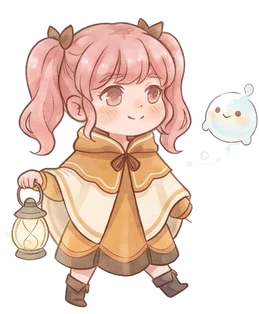
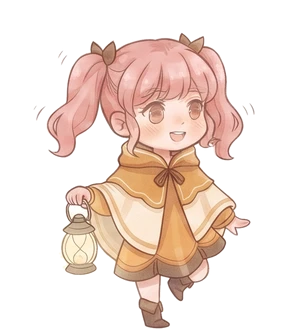
새싹 원정대 v6.7: 소환사 4장 걷기 + 따로 떠다니는 정령, 첫 실행은 바로 모험, 단계별 안내, 첫 레벨업·첫 카드 앞당김, 초반 정예 완화
Claude-Session: https://claude.ai/code/session_01D8ERGz5r4FPkuXoKDYhqRw

diff --git a/sprout/index.html b/sprout/index.html
@@ -3,7 +3,7 @@
 <head>
 <meta charset="utf-8">
 <meta name="viewport" content="width=device-width,initial-scale=1,viewport-fit=cover,user-scalable=no">
-<title>새싹 원정대 v6.6</title>
+<title>새싹 원정대 v6.7</title>
 <meta name="theme-color" content="#2f4a2c">
 <style>
 :root{--ink:#3a2f22;--cream:#fbf5e6}
@@ -65,9 +65,9 @@ function fit(){
 addEventListener('resize',fit);fit();
 
 /* ---------- 이미지 ---------- */
-const IMG={};const NAMES=['sprout','hedgehog','fox','bunny','owl','frog','sheep','baker','sprite_e0','sprite_e1','sprite_e2','sprite_e3','boss','bg_forest','p_idle','p_run','p_swing','p_jump','p_cast','fx_leaf','fox_idle','fox_shoot','bunny_idle','bunny_heal','hedgehog_idle','hedgehog_atk','sheep_idle','sheep_atk','ground','plat','bg_village','bg_marsh','m_e0','m_e1','m_e2','m_e3','boss2','it_bread','it_clover','it_mush','it_star','it_twig','it_seed','it_chest','it_jar','owl_idle','owl_cast','frog_idle','frog_play','baker','rival','thief','castle_me','castle_foe','fg1','fg2','fg3','vfx_slash','vfx_heal','vfx_hit','vfx_lvup','vfx_star','vfx_leaf','fox_w1','fox_w2','fox_w3','fox_a','sheep_w1','sheep_w2','sheep_w3','sheep_a','bunny_w1','bunny_w2','bunny_w3','bunny_a','owl_w1','owl_w2','owl_w3','owl_a','dmg_n','dmg_c','board','chest','trophy','bg_duel','bg_wide','bg_desert','bg_blossom','bg_world','b_fox','b_sheep','b_bunny','b_hedgehog','b_owl','b_frog','b_ice','b_spire','tw_me','tw_foe','hb0','hb1','hb2','hb3','frost_h0','frost_h1','frost_h2','frost_h3','thief_h0','thief_h1','thief_h2','thief_h3','skill_icons','spirit','fxs','wb_0','wb_1','wb_2','wb_3','wb_4','wb_5','c_sum_h0','c_sum_h1','c_sum_h2','c_sum_h3','c_war_h0','c_war_h1','c_war_h2','c_war_h3','c_arc_h0','c_arc_h1','c_arc_h2','c_arc_h3','c_mag_h0','c_mag_h1','c_mag_h2','c_mag_h3','c_rog_h0','c_rog_h1','c_rog_h2','c_rog_h3','baker_h0','baker_h1','baker_h2','baker_h3','p_run2','p_k1','p_k2','p_k3','p_k4','p_k5','p_rc0','p_rc1','p_rc2','p_rc3','p_rc4','p_rc5','p_rc6','p_rc7','p_rt0','p_rt1','p_rt2','p_rt3','p_rt4','p_rt5','p_rt6','p_rt7','p_jc','p_jr','p_jf','p_jl','bg_canyon','castle_lava','castle_ghost','jg_dragon','jg_icedragon','bush','heal_fruit','lv_e0','lv_e1','lv_e2','lv_e3','lv_m0','lv_m1','lv_m2','lv_m3','gh_e0','gh_e1','gh_e2','gh_e3','gh_m0','gh_m1','gh_m2','gh_m3','hj_knight','hj_assassin','hj_lancer','hj_bear','hj_elf','hj_raccoon','hj_mage','hj_deer','hj_monk','hj_wolf','hj_turtle','hj_gunner','hj_alch','hj_penguin','hj_crow','hj_bard','tw_lv','b_lv1','b_lv2','sp_lv','tw_gh','b_gh1','b_gh2','sp_gh'];
+const IMG={};const NAMES=['sprout','hedgehog','fox','bunny','owl','frog','sheep','baker','sprite_e0','sprite_e1','sprite_e2','sprite_e3','boss','bg_forest','p_idle','p_run','p_swing','p_jump','p_cast','fx_leaf','fox_idle','fox_shoot','bunny_idle','bunny_heal','hedgehog_idle','hedgehog_atk','sheep_idle','sheep_atk','ground','plat','bg_village','bg_marsh','m_e0','m_e1','m_e2','m_e3','boss2','it_bread','it_clover','it_mush','it_star','it_twig','it_seed','it_chest','it_jar','owl_idle','owl_cast','frog_idle','frog_play','baker','rival','thief','castle_me','castle_foe','fg1','fg2','fg3','vfx_slash','vfx_heal','vfx_hit','vfx_lvup','vfx_star','vfx_leaf','fox_w1','fox_w2','fox_w3','fox_a','sheep_w1','sheep_w2','sheep_w3','sheep_a','bunny_w1','bunny_w2','bunny_w3','bunny_a','owl_w1','owl_w2','owl_w3','owl_a','dmg_n','dmg_c','board','chest','trophy','bg_duel','bg_wide','bg_desert','bg_blossom','bg_world','b_fox','b_sheep','b_bunny','b_hedgehog','b_owl','b_frog','b_ice','b_spire','tw_me','tw_foe','hb0','hb1','hb2','hb3','frost_h0','frost_h1','frost_h2','frost_h3','thief_h0','thief_h1','thief_h2','thief_h3','skill_icons','spirit','fxs','c_sum_h4','c_sum_h5','wb_0','wb_1','wb_2','wb_3','wb_4','wb_5','c_sum_h0','c_sum_h1','c_sum_h2','c_sum_h3','c_war_h0','c_war_h1','c_war_h2','c_war_h3','c_arc_h0','c_arc_h1','c_arc_h2','c_arc_h3','c_mag_h0','c_mag_h1','c_mag_h2','c_mag_h3','c_rog_h0','c_rog_h1','c_rog_h2','c_rog_h3','baker_h0','baker_h1','baker_h2','baker_h3','p_run2','p_k1','p_k2','p_k3','p_k4','p_k5','p_rc0','p_rc1','p_rc2','p_rc3','p_rc4','p_rc5','p_rc6','p_rc7','p_rt0','p_rt1','p_rt2','p_rt3','p_rt4','p_rt5','p_rt6','p_rt7','p_jc','p_jr','p_jf','p_jl','bg_canyon','castle_lava','castle_ghost','jg_dragon','jg_icedragon','bush','heal_fruit','lv_e0','lv_e1','lv_e2','lv_e3','lv_m0','lv_m1','lv_m2','lv_m3','gh_e0','gh_e1','gh_e2','gh_e3','gh_m0','gh_m1','gh_m2','gh_m3','hj_knight','hj_assassin','hj_lancer','hj_bear','hj_elf','hj_raccoon','hj_mage','hj_deer','hj_monk','hj_wolf','hj_turtle','hj_gunner','hj_alch','hj_penguin','hj_crow','hj_bard','tw_lv','b_lv1','b_lv2','sp_lv','tw_gh','b_gh1','b_gh2','sp_gh'];
 let loaded=0,loadedS=0;const NSM=[...new Set(NAMES.filter(n=>!n.startsWith('bg_')))],NBG=[...new Set(NAMES.filter(n=>n.startsWith('bg_')))];
-function ldImg(n){const i=IMG[n];if(i.getAttribute('src'))return;i.src='img/'+n+(n.startsWith('bg_')?'.jpg':'.webp')+'?v=66'}
+function ldImg(n){const i=IMG[n];if(i.getAttribute('src'))return;i.src='img/'+n+(n.startsWith('bg_')?'.jpg':'.webp')+'?v=67'}
 [...NSM,...NBG].forEach(n=>{const i=new Image(),sm=!n.startsWith('bg_');i.onload=i.onerror=()=>{loaded++;if(sm){loadedS++;if(loadedS>=NSM.length)NBG0().forEach(ldImg)}};IMG[n]=i;});
 const MAPBG=['bg_wide','bg_desert','bg_blossom','bg_world','bg_canyon'],NBG0=()=>NBG.filter(n=>!MAPBG.includes(n));
 NSM.forEach(ldImg);['bg_duel','bg_village'].forEach(ldImg);setTimeout(()=>NBG0().forEach(ldImg),6000);
@@ -642,7 +642,7 @@ function jgSpawn(j){const D=DU,q=JGL()[j],LY=LANEY(),cx=DW()*q[0],cy=MAPS[D.map]
 function lolSetup(){const D=DU;SV.rpg=true;D.tl=360;{const ci=MAPS.findIndex(m=>m.only==='lol');if(ci>=0&&mapOk(ci)&&!(SV.map>0)){D.map=ci;D.cam=0;D.camY=null;for(const sd of [1,-1]){const h=D.H[sd].u;if(h){D.units=D.units.filter(u=>u!==h);D.H[sd].u=null}heroSpawn(sd)}const m=MAPS[ci];D.fruits=(m.fruit||[]).map(f=>({x:DW()*f[0],y:FY0+WH()*f[1],t:0}))}}D.deck.slice(0,3).forEach((k,r)=>duelBuild(1,k,1,r));const pl=D.pool;for(let r=0;r<3;r++)duelBuild(-1,pl[r%pl.length],1,r);D.jg=JGL().map(()=>({t:0}));JGL().forEach((q,j)=>jgSpawn(j));D.en=10}
 DMODE.fps=['🎥','1인칭 대전','영웅 등 뒤에서 전장을 바라보며 진영 대전을 해요','뒤에서 보는 3D 시점'];DMODE.maze=['🌙','미로 탐험','수호신과 함께 밤의 미로에서 별을 모아 탈출해요','위에서 보는 수집 방식'];DMODE.story=['🌿','원정','마을에서 친구를 모으고 숲과 늪을 탐험해요','횡스크롤 액션 방식'];
 function RPm(D){return D.mode==='rpg'}
-const HEROES={c_sum:{n:'소환사',role:'🐾 소환사 · 등불과 정령',hp:350,dmg:18,range:185,spd:64,rate:.82,shot:1,heal:20,hu:1,sk:'bunny',nw:1},c_war:{n:'전사',role:'🛡 전사 · 둥근 방패',hp:580,dmg:23,range:40,spd:62,rate:.8,hu:1,sk:'sheep',nw:1},c_arc:{n:'궁수',role:'🏹 궁수 · 먼 거리',hp:320,dmg:22,range:215,spd:70,rate:.66,shot:1,hu:1,sk:'fox',nw:1},c_mag:{n:'마법사',role:'🔮 마법사 · 범위 마법',hp:300,dmg:24,range:195,spd:62,rate:1.05,splash:64,shot:1,hu:1,sk:'owl',nw:1},c_rog:{n:'도적',role:'🗡 도적 · 날쌘 발',hp:360,dmg:23,range:38,spd:86,rate:.5,hu:1,sk:'thief',nw:1},sprout:{n:'새싹',role:'균형 · 지팡이',hp:380,dmg:20,range:38,spd:62,rate:.8},frost:{n:'서리',role:'얼음 마법 · 범위',hp:300,dmg:19,range:190,spd:62,rate:1.05,splash:52,shot:1,hu:1},thief:{n:'도둑 까망',role:'번개 같은 단검',hp:370,dmg:23,range:38,spd:82,rate:.5,hu:1},baker:{n:'제빵사 모모',role:'치유 · 든든한 빵',hp:430,dmg:15,range:40,spd:60,rate:.85,heal:26,hu:1},fox:{n:'여우 궁수',role:'멀리서 쏘기',hp:290,dmg:15,range:205,spd:66,rate:.8,shot:1},sheep:{n:'양 방패병',role:'단단한 방패',hp:600,dmg:15,range:40,spd:56,rate:.9},hedgehog:{n:'고슴도치 검사',role:'빠른 돌격',hp:410,dmg:25,range:38,spd:72,rate:.6},owl:{n:'부엉이 마법사',role:'범위 마법',hp:270,dmg:19,range:195,spd:60,rate:1.15,splash:60,shot:1},bunny:{n:'토끼 치유사',role:'치유 · 지원',hp:330,dmg:15,range:190,spd:64,rate:.85,shot:1,heal:22},frog:{n:'개구리 응원단',role:'아군 강화',hp:400,dmg:16,range:40,spd:60,rate:.85,buff:1},knight:{n:'잎새 기사',role:'⚔ 전사 · 방패',hp:540,dmg:19,range:40,spd:60,rate:.85,hu:1,sj:1,sk:'sheep'},assassin:{n:'그림자 자객',role:'⚔ 암살 · 쌍단검',hp:340,dmg:26,range:38,spd:86,rate:.48,hu:1,sj:1,sk:'thief'},lancer:{n:'토끼 창기사',role:'⚔ 창 · 긴 찌르기',hp:410,dmg:22,range:60,spd:76,rate:.7,hu:1,sj:1,sk:'hedgehog'},bear:{n:'곰 망치 전사',role:'⚔ 묵직한 한 방',hp:660,dmg:30,range:44,spd:52,rate:1.25,hu:1,sj:1,sk:'sheep'},elf:{n:'엘프 명궁',role:'🏹 궁수 · 먼 거리',hp:290,dmg:17,range:220,spd:68,rate:.7,shot:1,hu:1,sj:1,sk:'fox'},raccoon:{n:'너구리 석궁병',role:'🏹 궁수 · 강한 한 발',hp:320,dmg:24,range:195,spd:62,rate:1.05,shot:1,hu:1,sj:1,sk:'fox'},mage:{n:'별빛 마법사',role:'✨ 마법 · 범위',hp:270,dmg:20,range:195,spd:60,rate:1.1,splash:60,shot:1,hu:1,sj:1,sk:'owl'},deer:{n:'사슴 사제',role:'✨ 치유 · 축복',hp:330,dmg:13,range:185,spd:62,rate:.85,shot:1,heal:24,hu:1,sj:1,sk:'bunny'},monk:{n:'판다 무도가',role:'⚔ 격투 · 빠른 주먹',hp:480,dmg:18,range:38,spd:74,rate:.5,hu:1,sj:1,sk:'hedgehog'},wolf:{n:'늑대 광전사',role:'⚔ 쌍도끼 · 돌격',hp:460,dmg:28,range:40,spd:78,rate:.6,hu:1,sj:1,sk:'thief'},turtle:{n:'거북 성기사',role:'⚔ 방패 · 아주 튼튼',hp:720,dmg:17,range:40,spd:48,rate:.95,hu:1,sj:1,sk:'sheep'},gunner:{n:'수달 총잡이',role:'🏹 총 · 가장 먼 거리',hp:280,dmg:28,range:230,spd:64,rate:1.2,shot:1,hu:1,sj:1,sk:'fox'},alch:{n:'두더지 연금술사',role:'✨ 물약 · 범위',hp:310,dmg:18,range:170,spd:60,rate:1,splash:55,shot:1,hu:1,sj:1,sk:'owl'},penguin:{n:'펭귄 얼음 마법사',role:'✨ 얼음 · 범위',hp:280,dmg:19,range:190,spd:60,rate:1.05,splash:50,shot:1,hu:1,sj:1,sk:'frost'},crow:{n:'까마귀 흑마법사',role:'✨ 저주 · 강한 한 발',hp:260,dmg:26,range:205,spd:62,rate:1.25,shot:1,hu:1,sj:1,sk:'owl'},bard:{n:'고양이 음유시인',role:'🎵 응원 · 치유',hp:300,dmg:14,range:180,spd:66,rate:.8,shot:1,heal:18,hu:1,sj:1,sk:'bunny'}};
+const HEROES={c_sum:{n:'소환사',role:'🐾 소환사 · 등불과 정령',hp:350,dmg:18,range:185,spd:64,rate:.82,shot:1,heal:20,hu:1,sk:'bunny',nw:1,w4:1},c_war:{n:'전사',role:'🛡 전사 · 둥근 방패',hp:580,dmg:23,range:40,spd:62,rate:.8,hu:1,sk:'sheep',nw:1},c_arc:{n:'궁수',role:'🏹 궁수 · 먼 거리',hp:320,dmg:22,range:215,spd:70,rate:.66,shot:1,hu:1,sk:'fox',nw:1},c_mag:{n:'마법사',role:'🔮 마법사 · 범위 마법',hp:300,dmg:24,range:195,spd:62,rate:1.05,splash:64,shot:1,hu:1,sk:'owl',nw:1},c_rog:{n:'도적',role:'🗡 도적 · 날쌘 발',hp:360,dmg:23,range:38,spd:86,rate:.5,hu:1,sk:'thief',nw:1},sprout:{n:'새싹',role:'균형 · 지팡이',hp:380,dmg:20,range:38,spd:62,rate:.8},frost:{n:'서리',role:'얼음 마법 · 범위',hp:300,dmg:19,range:190,spd:62,rate:1.05,splash:52,shot:1,hu:1},thief:{n:'도둑 까망',role:'번개 같은 단검',hp:370,dmg:23,range:38,spd:82,rate:.5,hu:1},baker:{n:'제빵사 모모',role:'치유 · 든든한 빵',hp:430,dmg:15,range:40,spd:60,rate:.85,heal:26,hu:1},fox:{n:'여우 궁수',role:'멀리서 쏘기',hp:290,dmg:15,range:205,spd:66,rate:.8,shot:1},sheep:{n:'양 방패병',role:'단단한 방패',hp:600,dmg:15,range:40,spd:56,rate:.9},hedgehog:{n:'고슴도치 검사',role:'빠른 돌격',hp:410,dmg:25,range:38,spd:72,rate:.6},owl:{n:'부엉이 마법사',role:'범위 마법',hp:270,dmg:19,range:195,spd:60,rate:1.15,splash:60,shot:1},bunny:{n:'토끼 치유사',role:'치유 · 지원',hp:330,dmg:15,range:190,spd:64,rate:.85,shot:1,heal:22},frog:{n:'개구리 응원단',role:'아군 강화',hp:400,dmg:16,range:40,spd:60,rate:.85,buff:1},knight:{n:'잎새 기사',role:'⚔ 전사 · 방패',hp:540,dmg:19,range:40,spd:60,rate:.85,hu:1,sj:1,sk:'sheep'},assassin:{n:'그림자 자객',role:'⚔ 암살 · 쌍단검',hp:340,dmg:26,range:38,spd:86,rate:.48,hu:1,sj:1,sk:'thief'},lancer:{n:'토끼 창기사',role:'⚔ 창 · 긴 찌르기',hp:410,dmg:22,range:60,spd:76,rate:.7,hu:1,sj:1,sk:'hedgehog'},bear:{n:'곰 망치 전사',role:'⚔ 묵직한 한 방',hp:660,dmg:30,range:44,spd:52,rate:1.25,hu:1,sj:1,sk:'sheep'},elf:{n:'엘프 명궁',role:'🏹 궁수 · 먼 거리',hp:290,dmg:17,range:220,spd:68,rate:.7,shot:1,hu:1,sj:1,sk:'fox'},raccoon:{n:'너구리 석궁병',role:'🏹 궁수 · 강한 한 발',hp:320,dmg:24,range:195,spd:62,rate:1.05,shot:1,hu:1,sj:1,sk:'fox'},mage:{n:'별빛 마법사',role:'✨ 마법 · 범위',hp:270,dmg:20,range:195,spd:60,rate:1.1,splash:60,shot:1,hu:1,sj:1,sk:'owl'},deer:{n:'사슴 사제',role:'✨ 치유 · 축복',hp:330,dmg:13,range:185,spd:62,rate:.85,shot:1,heal:24,hu:1,sj:1,sk:'bunny'},monk:{n:'판다 무도가',role:'⚔ 격투 · 빠른 주먹',hp:480,dmg:18,range:38,spd:74,rate:.5,hu:1,sj:1,sk:'hedgehog'},wolf:{n:'늑대 광전사',role:'⚔ 쌍도끼 · 돌격',hp:460,dmg:28,range:40,spd:78,rate:.6,hu:1,sj:1,sk:'thief'},turtle:{n:'거북 성기사',role:'⚔ 방패 · 아주 튼튼',hp:720,dmg:17,range:40,spd:48,rate:.95,hu:1,sj:1,sk:'sheep'},gunner:{n:'수달 총잡이',role:'🏹 총 · 가장 먼 거리',hp:280,dmg:28,range:230,spd:64,rate:1.2,shot:1,hu:1,sj:1,sk:'fox'},alch:{n:'두더지 연금술사',role:'✨ 물약 · 범위',hp:310,dmg:18,range:170,spd:60,rate:1,splash:55,shot:1,hu:1,sj:1,sk:'owl'},penguin:{n:'펭귄 얼음 마법사',role:'✨ 얼음 · 범위',hp:280,dmg:19,range:190,spd:60,rate:1.05,splash:50,shot:1,hu:1,sj:1,sk:'frost'},crow:{n:'까마귀 흑마법사',role:'✨ 저주 · 강한 한 발',hp:260,dmg:26,range:205,spd:62,rate:1.25,shot:1,hu:1,sj:1,sk:'owl'},bard:{n:'고양이 음유시인',role:'🎵 응원 · 치유',hp:300,dmg:14,range:180,spd:66,rate:.8,shot:1,heal:18,hu:1,sj:1,sk:'bunny'}};
 const HUS={c_sum:['🏮','정령 부르기',9],c_war:['🛡','방패 밀치기',5],c_arc:['🏹','연속 사격',4],c_mag:['✨','별빛 마법',7],c_rog:['💨','그림자 베기',4],frost:['❄','얼음 폭풍',6],thief:['🗡','그림자 베기',4],baker:['🥖','빵 나눔',6],fox:['🏹','연속 사격',4],sheep:['🛡','방패 밀치기',5],hedgehog:['🌀','가시 회전',4],owl:['☄','별똥별',7],bunny:['🥕','당근 치유',7],frog:['📣','힘내라 응원',12],knight:['🛡','방패 강타',5],assassin:['🗡','그림자 베기',4],lancer:['🌀','회전 창',4],bear:['🔨','대지 강타',5],elf:['🏹','세 발 화살',4],raccoon:['🎯','연발 석궁',4],mage:['☄','별똥별',7],deer:['🔔','축복의 종',7],monk:['👊','회전 발차기',4],wolf:['🪓','쌍도끼 베기',4],turtle:['🛡','빛의 방패',5],gunner:['💥','연발 사격',4],alch:['🧪','폭발 물약',7],penguin:['❄','얼음 폭풍',6],crow:['🔮','보랏빛 불꽃',7],bard:['🎵','응원의 노래',7]};
 function heroSkill(u){const D=DU,k=HEROES[u.hk].sk||u.hk,S=HUS[u.hk],f=u.fx||1;u.skT.smash=S[2];u.lun=.2;u.cd=Math.max(u.cd,.3);
  const en=(x,y,r)=>D.units.filter(o=>o.side!==u.side&&o.hp>0&&!(o.spawnT>0)&&Math.hypot(o.x-x,(o.y-y)*1.3)<r),al=r=>D.units.filter(o=>o.side===u.side&&o.hp>0&&Math.hypot(o.x-u.x,(o.y-u.y)*1.3)<r);
@@ -667,7 +667,7 @@ function mstAdd(n){const m=HM();m.xp+=n;let up=0;while(m.xp>=mstNeed()&&m.lv<50)
 function itMax(){return DU.mode==='grow'?30:DU.mode==='rpg'||DU.mode==='lol'?5:2}
 const CAMPS0=[{n:'허수아비 밭',fx:.185,row:.38,ks:['e0','e0','e1'],m:.7},{n:'꽃밭 길목',fx:.27,row:.63,ks:['e1','e1','e3'],m:.95},{n:'석상 수호자',fx:.385,row:.45,ks:['e0','e3'],el:'e2',m:1.2},{n:'모닥불 야영지',fx:.46,row:.62,ks:['e3','e3','m1','m1'],m:1.5},{n:'강 건너 다리',fx:.555,row:.5,ks:['m1','m1'],el:'m0',m:1.8},{n:'수정 숲',fx:.66,row:.4,ks:['m2','m3','m3'],m:2.15},{n:'얼음 고리',fx:.74,row:.6,ks:['m2','m2','m1'],el:'m0',m:2.5},{n:'얼음 초소',fx:.83,row:.5,ks:['m3','m3'],el:'e2',m:2.9},{n:'서리의 얼음 성',fx:.925,row:.5,boss:1,ks:[],m:1}];
 function campSpawn(i){const D=DU,c=CAMPS[i],cx=DW()*c.fx,cy=FY0+WH()*c.row,lm=Math.pow(1.13,(D.rl0||1)-1);if(c.boss){D.H[-1].lv=7;D.H[-1].dead=0;heroSpawn(-1);const u=D.H[-1].u;u.x=cx;u.y=cy;u.camp={x:cx,y:cy,i};u.boss=1;u.hp=u.hpMax=u.hpMax*10*lm;u.dmg*=2*lm;u.rad*=1.25;return}
- const all=c.ks.concat(c.el?[c.el]:[]);all.forEach((k,j)=>{const a=j/all.length*6.283,ox=Math.cos(a)*34,oy=Math.sin(a)*22;duelSpawn(-1,k,{side:-1,x:cx+ox+26,y:cy+oy,r:1});const u=D.units[D.units.length-1];u.y=cy+oy;u.camp={x:cx+ox,y:cy+oy,i};if(c.skin)u.skin=c.skin;u.hp=u.hpMax=u.hpMax*c.m*1.8*lm;u.dmg*=c.m*1.2*lm;if(c.el&&j===all.length-1){u.elite=1;u.hp=u.hpMax=u.hpMax*3.2;u.dmg*=1.5;u.rad*=1.45}})}
+ const all=c.ks.concat(c.el?[c.el]:[]);all.forEach((k,j)=>{const a=j/all.length*6.283,ox=Math.cos(a)*34,oy=Math.sin(a)*22;duelSpawn(-1,k,{side:-1,x:cx+ox+26,y:cy+oy,r:1});const u=D.units[D.units.length-1];u.y=cy+oy;u.camp={x:cx+ox,y:cy+oy,i};if(c.skin)u.skin=c.skin;u.hp=u.hpMax=u.hpMax*c.m*1.8*lm;u.dmg*=c.m*1.2*lm;if(c.el&&j===all.length-1){u.elite=1;u.hp=u.hpMax=u.hpMax*(i<4?1.9:3.2);u.dmg*=(i<4?1.25:1.5);u.rad*=1.45}})}
 function rlSave(){const D=DU;if(!D||D.mode!=='rpg')return;const Hh=D.H[1];SV.rl=SV.rl||{};SV.rl[heroKey()]={lv:Hh.lv,xp:Hh.xp,sk:Object.assign({},Hh.sk),job:Hh.job||0};save()}
 function rpgSetup(){const D=DU;{const r=(SV.rl||{})[heroKey()],Hh=D.H[1];D.rl0=1;if(r&&r.lv>=1){Hh.lv=r.lv;Hh.xp=r.xp||0;Hh.sk=Object.assign({},r.sk||{});Hh.job=r.job||0;D.rl0=r.lv;const h=Hh.u;if(h){D.units=D.units.filter(u=>u!==h);Hh.u=null}heroSpawn(1);D.banner={t:2.2,txt:'🧭 모험 이어하기 · '+HEROES[heroKey()].n+' Lv.'+r.lv}}}{const wi=MAPS.findIndex(m=>m.only==='rpg');D.map=wi>=0&&mapOk(wi)&&!SV.rpgOld?wi:(MAPS[D.map].only?0:D.map);const m=MW();CAMPS=m?m.camps:CAMPS0;TRES=m?m.tres:TRES0;D.cam=0;D.camY=null;if(m){const h=D.H[1].u;if(h){h.x=homeX();h.y=homeY()}}}const r=D.H[-1].u;if(r){D.units=D.units.filter(u=>u!==r);D.H[-1].u=null}D.foe.hp=D.foe.max=1e9;D.en=0;D.q=0;D.camps=CAMPS.map(()=>({t:0,done:0}));CAMPS.forEach((c,i)=>campSpawn(i));D.deck.slice(0,2).forEach((k,i)=>palSpawn(k,i));SV.rpg=true;D.tres=TRES.map(t=>({x:DW()*t[0],y:FY0+WH()*t[1],got:0}));D.story=5}
 function palSpawn(k,i){const D=DU,h=D.H[1].u,x=h?h.x-30:homeX()+16,y=(h?h.y:homeY())+(i?22:-22);duelSpawn(1,k,{side:1,x:x-26,y,r:1});const u=D.units[D.units.length-1];u.pal=1;u.palI=i;u.hp=u.hpMax=u.hpMax*1.6}
@@ -914,7 +914,7 @@ function drawDuel(dt){const D=DU;btns=[];
  if(SV.rpg&&D.lock&&D.lock.hp>0&&!D.lock.dead){const o=D.lock,pu=.5+.5*Math.sin(D.t*7);ctx.save();ctx.strokeStyle='#ffd23a';ctx.lineWidth=3;ctx.beginPath();ctx.ellipse(o.x,o.y+1,o.rad*1.8+3+pu*2,o.rad*.8+2+pu,0,0,7);ctx.stroke();ctx.fillStyle='#000';ctx.font='16px system-ui';ctx.textAlign='center';ctx.fillText('🎯',o.x,o.y-o.rad*3.2-18-pu*2);ctx.restore();ctx.textAlign='left'}
  if(SV.rpg&&D.htg&&D.htg.hp>0&&!D.htg.dead){const o=D.htg,pu=.5+.5*Math.sin(D.t*9);ctx.save();ctx.strokeStyle='rgba(255,90,70,'+(.65+.3*pu)+')';ctx.lineWidth=2.4;ctx.setLineDash([7,5]);ctx.lineDashOffset=-D.t*30;ctx.beginPath();ctx.ellipse(o.x,o.y+1,o.rad*1.5+2+pu*2,o.rad*.66+1+pu,0,0,7);ctx.stroke();ctx.restore()}
  if(D.mode==='rpg'){for(const t of D.tres||[]){if(t.got)continue;const im=IMG.chest,bo=Math.sin(D.t*3+t.x)*2;ctx.save();ctx.fillStyle='rgba(255,216,74,'+(.22+.14*Math.sin(D.t*5))+')';ctx.beginPath();ctx.ellipse(t.x,t.y,24,11,0,0,7);ctx.fill();if(im&&im.naturalWidth){const h=30,w=im.naturalWidth*h/im.naturalHeight;ctx.drawImage(im,t.x-w/2,t.y-h-2+bo,w,h)}else{ctx.font='24px system-ui';ctx.textAlign='center';ctx.fillText('🎁',t.x,t.y-4+bo)}ctx.restore();ctx.textAlign='left'}
-  {const nx=npcX(),ny=npcY(),im=IMG.baker;if(im&&im.naturalWidth){sprite(im,nx,ny,58,1,{noShadow:0});const h=D.H[1].u,near=h&&Math.hypot(h.x-nx,h.y-ny)<150,qi=Math.min(D.q,CAMPS.length-1);const tx=D.story>0?'서리가 마을의 봄을 얼리려 해! 동쪽 얼음 성으로 가 줘':near?(CAMPS[qi].boss?'이제 서리만 남았어. 힘내!':'다음은 "'+CAMPS[qi].n+'" 이야. 장비도 챙겨 가!'):'';if(tx){ctx.save();ctx.font='900 12px system-ui';const tw=ctx.measureText(tx).width+20;ctx.fillStyle='rgba(255,253,246,.96)';roundRect(nx-20,ny-98,tw,26,10);ctx.fill();ctx.strokeStyle='#6b4a2c';ctx.lineWidth=1.6;roundRect(nx-20,ny-98,tw,26,10);ctx.stroke();ctx.fillStyle='#4a2c14';ctx.fillText(tx,nx-10,ny-80);ctx.restore()}else{ctx.font='900 18px system-ui';ctx.fillStyle='#ffd23a';ctx.strokeStyle='#6b4a2c';ctx.lineWidth=3;ctx.strokeText('!',nx-3,ny-66+Math.sin(D.t*5)*3);ctx.fillText('!',nx-3,ny-66+Math.sin(D.t*5)*3)}}}}
+  {const nx=npcX(),ny=npcY(),im=IMG.baker;if(im&&im.naturalWidth){sprite(im,nx,ny,58,1,{noShadow:0});const h=D.H[1].u,near=h&&Math.hypot(h.x-nx,h.y-ny)<150,qi=Math.min(D.q,CAMPS.length-1);const tx=D.story>0?'서리가 마을의 봄을 얼리려 해! 동쪽 얼음 성으로 가 줘':near?(CAMPS[qi].boss?'이제 서리만 남았어. 힘내!':'다음은 "'+CAMPS[qi].n+'" 이야. 장비도 챙겨 가!'):'';if(tx){ctx.save();ctx.font='900 12px system-ui';const tw=ctx.measureText(tx).width+20;ctx.fillStyle='rgba(255,253,246,.96)';roundRect(nx-20,ny+10,tw,26,10);ctx.fill();ctx.strokeStyle='#6b4a2c';ctx.lineWidth=1.6;roundRect(nx-20,ny+10,tw,26,10);ctx.stroke();ctx.fillStyle='#4a2c14';ctx.fillText(tx,nx-10,ny+28);ctx.restore()}else{ctx.font='900 18px system-ui';ctx.fillStyle='#ffd23a';ctx.strokeStyle='#6b4a2c';ctx.lineWidth=3;ctx.strokeText('!',nx-3,ny-66+Math.sin(D.t*5)*3);ctx.fillText('!',nx-3,ny-66+Math.sin(D.t*5)*3)}}}}
  for(const t of D.tele||[]){if(t.hit)continue;const k=1-Math.max(0,t.t)/t.T;ctx.save();ctx.fillStyle='rgba(255,60,40,'+(.12+.1*Math.sin(D.t*18))+')';ctx.beginPath();ctx.ellipse(t.x,t.y,t.r,t.r*.62,0,0,7);ctx.fill();ctx.strokeStyle='rgba(255,70,50,.9)';ctx.lineWidth=2.5;ctx.stroke();ctx.fillStyle='rgba(255,80,50,.42)';ctx.beginPath();ctx.ellipse(t.x,t.y,t.r*k,t.r*.62*k,0,0,7);ctx.fill();ctx.restore()}
  for(const d of D.drops||[]){const bo=Math.sin(D.t*4+d.x)*3,pop=Math.min(1,d.t*4);ctx.save();ctx.globalAlpha=d.t>34?.5+.5*Math.sin(D.t*12):1;ctx.fillStyle='rgba(255,230,120,.35)';ctx.beginPath();ctx.ellipse(d.x,d.y,15,7,0,0,7);ctx.fill();ctx.font=Math.round(22*pop)+'px system-ui';ctx.textAlign='center';ctx.fillText(d.k==='pot'?'🧪':d.k==='gold'?'💰':'🍎',d.x,d.y-6+bo-(1-pop)*20);ctx.restore();ctx.textAlign='left'}
  if(D.chest){const c=D.chest,k=c.born>0?1-c.born/.4:1,im=IMG.chest;ctx.save();ctx.translate(c.x,c.y);ctx.fillStyle='rgba(255,216,74,'+(.25+.15*Math.sin(D.t*5))+')';ctx.beginPath();ctx.ellipse(0,0,26,12,0,0,7);ctx.fill();const bo=Math.sin(D.t*3)*2;if(im&&im.naturalWidth){const h=30*k,w=im.naturalWidth*h/im.naturalHeight;ctx.drawImage(im,-w/2,-h-2+bo,w,h)}else{ctx.font='24px system-ui';ctx.textAlign='center';ctx.fillText('🎁',0,-4+bo);ctx.textAlign='left'}ctx.restore()}
@@ -958,7 +958,7 @@ function drawDuel(dt){const D=DU;btns=[];
   if(u.hero&&u.side>0&&D.H[1].job&&!u.dead){const j=D.H[1].job,pu=.5+.5*Math.sin(D.t*4);ctx.save();ctx.globalCompositeOperation='lighter';const g=ctx.createRadialGradient(u.x,u.y-4,2,u.x,u.y-4,34+j*8);g.addColorStop(0,j===1?'rgba(140,255,120,'+(.35+.2*pu)+')':'rgba(255,230,120,'+(.4+.25*pu)+')');g.addColorStop(1,'rgba(255,255,255,0)');ctx.fillStyle=g;ctx.beginPath();ctx.ellipse(u.x,u.y-4,34+j*8,18+j*4,0,0,7);ctx.fill();ctx.restore()}
   if(u.hero){const hh=Math.round((u.side>0?64:60)*dp/4)*4*(u.side>0&&D.H[1].job?1+.08*D.H[1].job:1)*(u.hk&&HEROES[u.hk].nw?1.3:1),Hh=D.H[u.side];ctx.save();ctx.globalAlpha=al;ctx.strokeStyle=u.side>0?'#ffd84a':'#c9a0ff';ctx.lineWidth=2.4;ctx.beginPath();ctx.ellipse(u.x,u.y+1,u.rad*1.55,u.rad*.68,0,0,7);ctx.stroke();ctx.restore();
    if(u.side>0&&u.hk&&HEROES[u.hk].sj&&IMG['hj_'+u.hk].naturalWidth){const bob=u.mv?Math.abs(Math.sin(u.wd/22*Math.PI))*-3:0;sprite(IMG['hj_'+u.hk],u.x+lx,u.y,hh*1.12,1,{noShadow:1,dy:dy+bob,sy2:sy,sx:sx*(sd<0?-1:1),rot,alpha:al,flash:u.hit>0?.7:0})}
-   else if(u.side>0&&u.hk&&HEROES[u.hk].hu&&IMG[u.hk+'_h0']&&IMG[u.hk+'_h0'].naturalWidth){const K=u.hk,im=IMG[K+'_h'+((u.lun>0||u.act>0||u.cast>0)?3:u.mv?(Math.floor(u.wd/22)%2?1:2):0)],bob=u.mv?Math.abs(Math.sin(u.wd/22*Math.PI))*-2.5:Math.sin(u.anim*3)*.8;sprite(im,u.x+lx,u.y,hh*1.06,1,{noShadow:1,dy:bob,sx:(sd<0?-1:1),rot:u.dead?rot:0,alpha:al,flash:u.hit>0?.7:0})}
+   else if(u.side>0&&u.hk&&HEROES[u.hk].hu&&IMG[u.hk+'_h0']&&IMG[u.hk+'_h0'].naturalWidth){const K=u.hk,W4=HEROES[K].w4,atk=(u.lun>0||u.act>0||u.cast>0),im=IMG[K+'_h'+(atk?3:u.mv?(W4?[1,2,4,5][Math.floor(u.wd/15)%4]:(Math.floor(u.wd/22)%2?1:2)):0)],bob=u.mv?(W4?0:Math.abs(Math.sin(u.wd/22*Math.PI))*-2.5):Math.sin(u.anim*2.2)*1.1;sprite(im,u.x+lx,u.y,hh*(W4?1.14:1.06),1,{noShadow:1,dy:bob,sx:(sd<0?-1:1),rot:u.dead?rot:0,alpha:al,flash:u.hit>0?.7:0});if(K==='c_sum'&&!u.dead&&IMG.spirit&&IMG.spirit.naturalWidth){const sp=IMG.spirit,sh=hh*.3,sw=sp.naturalWidth*sh/sp.naturalHeight;u.spx=u.spx==null?u.x:u.spx+(u.x-sd*(atk?-hh*.5:hh*.46)-u.spx)*.12;u.spy=u.spy==null?u.y:u.spy+(u.y-u.spy)*.12;ctx.save();ctx.globalAlpha=al*.95;ctx.translate(u.spx,u.spy-hh*(atk?.95:.8)+Math.sin(u.anim*2.6)*3.5);ctx.scale(sd<0?-1:1,1);ctx.drawImage(sp,-sw/2,-sh/2,sw,sh);ctx.restore()}}
    else if(u.side>0&&u.hk&&u.hk!=='sprout'&&!HEROES[u.hk].hu){const K=u.hk,fr=FIMG[K];let im=fr?IMG[fr[u.act>0?1:0]]:IMG[FR[K].img];const wf=IMG[K+'_w1'];if(wf&&wf.naturalWidth)im=u.act>0||u.lun>0?IMG[K+'_a']:(u.mv?IMG[K+'_w'+(WSEQ[K]||[1,2,3,2])[Math.floor(u.wd/11)%4]]:IMG[K+'_w'+(WSEQ[K]||[1])[0]]);sprite(im,u.x+lx,u.y,0,1,{k:.245*dp*1.45,noShadow:1,dy,sy2:sy,sx:sx*(sd<0?-1:1),rot,alpha:al,flash:u.hit>0?.7:0})}
    else if(u.side>0&&bkOn()&&IMG.hb0&&IMG.hb0.naturalWidth&&!u.dead){const im=IMG[(u.lun>0||u.cast>0)?'hb3':u.mv?(Math.floor(u.wd/24)%2?'hb1':'hb2'):'hb0'],bob=u.mv?Math.abs(Math.sin(u.wd/24*Math.PI))*-3:0;sprite(im,u.x,u.y,hh*1.08,1,{noShadow:1,dy:bob,alpha:al,flash:u.hit>0?.7:0})}
    else if(u.side>0&&window.SPROUT_RIG&&SPROUT_RIG.R.ready){const md=(u.dead||u.hit>.06)?'hurt':u.cast>0?'cast':u.lun>0?'a1':u.mv?'run':'idle';const P=SPROUT_RIG.pose(md,(u.wd/52)%1,u.anim,1,u.lun>0?1-u.lun/.24:0);drawRig(u.x+lx,u.y,hh,sd,P,1,1,u.dead?rot:0,al,1)}
@@ -1333,7 +1333,7 @@ function drawTitle(dt){
  button(W-232,H-58,104,40,'📖 도감',()=>{scene='book'},'#cfe7b8');
  button(W-120,H-58,104,40,SV.mute?'🔇 음악':'🎵 음악',()=>{SV.mute=!SV.mute;save();if(SV.mute)bgmStop();else bgmStart()},'#e7e0f6');
  btns.unshift({x:0,y:0,w:W,h:H,cb:startGame});
- ctx.fillStyle='rgba(58,41,30,.7)';ctx.font='bold 12px system-ui';ctx.fillText('v6.6 · 직업별 기술 효과 그림 · 효과음 Kenney (CC0)',14,H-14);
+ ctx.fillStyle='rgba(58,41,30,.7)';ctx.font='bold 12px system-ui';ctx.fillText('v6.7 · 소환사 걷기·떠다니는 정령·첫 2분 안내 · 효과음 Kenney (CC0)',14,H-14);
  if(loaded<NAMES.length){ctx.fillStyle='#fff';ctx.font='bold 13px system-ui';ctx.fillText('그림 불러오는 중… '+loaded+'/'+NAMES.length,14,24)}
  // 꽃잎 (천천히)
  for(let i=0;i<22;i++){const sp=18+(i%5)*6,x=((i*137+titleT*sp*1.4)%(W+80))-40,y=((i*89+titleT*(sp+10))%(H+60))-30;ctx.save();ctx.translate(x,y);ctx.rotate(titleT*.8+i);ctx.fillStyle=i%3?'rgba(255,214,228,.75)':'rgba(255,240,200,.7)';ctx.beginPath();ctx.ellipse(0,0,6,3,0,0,7);ctx.fill();ctx.restore()}
@@ -1502,7 +1502,7 @@ function mcGive(c,x,y){SV.mc=SV.mc||{};const s0=mcStar(c);SV.mc[c]=(SV.mc[c]||0)
   D.capShow.eq=eq;if(eq)palRefresh();else if(s1>s0&&SV.pals.indexOf(c)>=0)palRefresh()}SFX.lv()}
 function mcKill(u){const D=DU;if(u.caught||u.hero||u.tw||u.boss||u.spr||MCR[u.k]==null)return;
  const lr=TR('t_leech'),h=D.H[1].u;if(lr&&h&&h.hp>0)h.hp=Math.min(h.hpMax,h.hp+h.hpMax*.03*lr);const gr=TR('t_gold');if(gr)D.en=Math.min(99,D.en+gr);
- if(!(u.camp||u.neu))return;const c=u.k+(u.elite&&MCIDS.indexOf(u.k+'*')>=0?'*':'');if(Math.random()<mcChance(c))mcGive(c,u.x,u.y);else{SV.cpity=SV.cpity||{};SV.cpity[c]=(SV.cpity[c]||0)+(cidE(c)?.15:MCR[c]===3?.08:.02)}}
+ if(!(u.camp||u.neu))return;const c=u.k+(u.elite&&MCIDS.indexOf(u.k+'*')>=0?'*':'');if(Math.random()<mcChance(c)||(!Object.keys(SV.mc||{}).length&&(D.kills||0)>=2&&!cidE(c)&&MCR[c]<3))mcGive(c,u.x,u.y);else{SV.cpity=SV.cpity||{};SV.cpity[c]=(SV.cpity[c]||0)+(cidE(c)?.15:MCR[c]===3?.08:.02)}}
 /* --- 스킬 트리 (직업별) --- */
 const TRN={
  t_atk:{i:'🗡',n:'날카로운 일격',mx:5,d:r=>'공격력 +'+8*r+'%'},
@@ -1552,7 +1552,7 @@ function trPick(job){const D=DU;trReset(job);D.trSel=TRJ[job].t[0][0];D.banner={
 {const _hs=heroSpawn;heroSpawn=function(side){_hs(side);if(side>0&&DU.H[1].tr){const u=DU.H[1].u,a=1+.08*TR('t_atk'),h=1+.1*TR('t_hp');u.dmg*=a;u.hpMax*=h;u.hp=u.hpMax;u.d.range*=1+.1*TR('t_range');u.d.spd*=1+.07*TR('t_spd')}}}
 {const _rs=rpgSetup;rpgSetup=function(){const D=DU,r=(SV.rl||{})[heroKey()];D.H[1].tr=Object.assign({},(r&&r.cls&&r.tr)||{});const jc=TRREC[heroKey()]||'war';if(!(r&&r.cls===jc))D.H[1].tr={};D.H[1].cls=jc;_rs();if(!(r&&r.cls===jc)){D.H[1].sk={};}wildSetup();if(palSlots()>2)palSpawn(D.deck[2],2)}}
 {const _sv=rlSave;rlSave=function(){const D=DU;if(!D||D.mode!=='rpg')return;_sv();SV.rl[heroKey()].tr=Object.assign({},D.H[1].tr||{});SV.rl[heroKey()].cls=D.H[1].cls||null;save()}}
-{const _hx=heroXP;heroXP=function(side,n){const D=DU,l0=D.H[side]?D.H[side].lv:0;_hx(side,n);if(side>0&&D.mode==='rpg'&&D.H[1].tr&&D.H[1].lv>l0){D.pick=null;if(!(D.banner&&D.banner.t>1.5&&!D.banner.small))D.banner={t:2.2,txt:'⭐ 스킬 포인트 +'+(D.H[1].lv-l0)+' · 위의 🌳 스킬을 눌러요',small:1}}}}
+{const _hx=heroXP;heroXP=function(side,n){const D=DU,l0=D.H[side]?D.H[side].lv:0;if(side>0&&D.mode==='rpg'&&l0<=3)n*=[0,2.6,1.9,1.4][l0];_hx(side,n);if(side>0&&D.mode==='rpg'&&D.H[1].tr&&D.H[1].lv>l0){D.pick=null;if(!(D.banner&&D.banner.t>1.5&&!D.banner.small))D.banner={t:2.2,txt:'⭐ 스킬 포인트 +'+(D.H[1].lv-l0)+' · 위의 🌳 스킬을 눌러요',small:1}}}}
 function capCid(o){if(o.side>=0||o.hp<=0||o.hero||o.tw||o.boss)return null;if(o.wild!=null)return o.k;if(o.elite&&MCIDS.indexOf(o.k+'*')>=0)return o.k+'*';return null}
 function capChance(c){return Math.min(.9,mcChance(c)*2.2+.12)}
 function capTarget(){const D=DU,h=D.H[1].u;if(!h||D.throw)return null;let b=null,bd=240;for(const o of D.units){const c=capCid(o);if(!c||o.tried||o.hp>o.hpMax*.3||o.spawnT>0)continue;const d=Math.hypot(o.x-h.x,o.y-h.y);if(d<bd){bd=d;b=o}}return b}
@@ -1566,7 +1566,8 @@ function spiritCall(u){const D=DU,n=2+(TR('t_slot')?1:0),pm=1+.15*TR('t_pal');u.
  for(let j=0;j<n;j++){duelSpawn(1,'fox',{x:u.x-26,y:u.y,r:u.r});const q=D.units[D.units.length-1];q.d=Object.assign({},UCARD.fox,{range:150,spd:78,rate:.95});q.spirit=1;q.spr='spirit';q.sprH=30;q.rad=8;q.pal=1;q.palI=9+j;q.pox=-22-j*6;q.poy=(j-(n-1)/2)*26;q.life=13;q.x=u.x+(u.fx||1)*18;q.y=u.y+q.poy;q.hp=q.hpMax=u.hpMax*.3*pm;q.dmg=u.dmg*.7*pm;q.spawnT=.25;for(let i=0;i<8;i++){const a=i/8*6.283;D.fx.push({x:q.x,y:q.y-14,vx:Math.cos(a)*90,vy:Math.sin(a)*60-30,life:.5,col:'#dff6ff',r:2.6,nog:1})}}
  for(const o of D.units)if(o.side===u.side&&o.hp>0&&!o.spirit&&Math.hypot(o.x-u.x,o.y-u.y)<140){o.hp=Math.min(o.hpMax,o.hp+o.hpMax*.08);D.fx.push({x:o.x,y:o.y-36,vx:0,vy:-40,life:.7,txt:'♥',col:'#8fe07a'})}
  D.fx.push({ring:1,x:u.x,y:u.y-12,r:10,life:.5,col:'#ffe9a0'});D.fx.push({ring:1,x:u.x,y:u.y-12,r:3,life:.65,col:'#dff6ff'});SFX.skill()}
-{const _h1=heroSkill;heroSkill=function(u){const f=u.fx||1;if(u.side>0){if(u.hk==='c_sum'){vfx2(0,u.x,u.y-18,190,1.2);spiritCall(u);return}if(u.hk==='c_war')vfx2(1,u.x+f*30,u.y-26,150,.5);if(u.hk==='c_arc')vfx2(2,u.x+f*80,u.y-30,190,.45,f<0);if(u.hk==='c_mag'){const t=DU.htg;vfx2(3,t?t.x:u.x+f*110,(t?t.y:u.y)-26,200,.75)}if(u.hk==='c_rog')vfx2(4,u.x+f*34,u.y-26,170,.4,f<0)}_h1(u)}}
+{const _sd=startDuel;startDuel=function(){_sd.apply(this,arguments);if(!SV.ft1&&DU&&DU.modeSel){SV.ft1=1;save();duelMode('rpg')}}}
+{const _h1=heroSkill;heroSkill=function(u){const f=u.fx||1;if(u.side>0){DU.didSmash=1;if(u.hk==='c_sum'){vfx2(0,u.x,u.y-18,190,1.2);spiritCall(u);return}if(u.hk==='c_war')vfx2(1,u.x+f*30,u.y-26,150,.5);if(u.hk==='c_arc')vfx2(2,u.x+f*80,u.y-30,190,.45,f<0);if(u.hk==='c_mag'){const t=DU.htg;vfx2(3,t?t.x:u.x+f*110,(t?t.y:u.y)-26,200,.75)}if(u.hk==='c_rog')vfx2(4,u.x+f*34,u.y-26,170,.4,f<0)}_h1(u)}}
 {const _hk=heroSkills;heroSkills=function(u,Hh,dt){const D=DU;if(!(u.side>0&&Hh.tr))return _hk(u,Hh,dt);const q=D.castQ,d0=u.dmg,w0=u.skT.water,r0=u.skT.rain;
  const f=q==='smash'?1+.2*TR('t_smash'):q==='ult'?1+.3*TR('t_ult'):1;u.dmg=d0*f;_hk(u,Hh,dt*(1+.1*TR('t_haste')));u.dmg/=f;
  const rg=TR('t_regen');if(rg&&u.hp>0)u.hp=Math.min(u.hpMax,u.hp+u.hpMax*.006*rg*dt);
@@ -1661,6 +1662,11 @@ function drawCards(){const D=DU,own=MCIDS.filter(c=>mcN(c)>0).length,M=modalBase
 {const _dd=drawDuel;drawDuel=function(dt){_dd(dt);const D=DU;if(!D||!D.mode||D.modeSel||D.maze)return;
  if(!D.done&&!D.pick&&D.mode==='rpg'&&!D.treeOpen&&!D.cardOpen&&!D.shop){const pts=D.H[1].tr?trPts():0;
   [['🌳 스킬',264,pts,()=>{DU.treeOpen=1;DU.cardOpen=0;SFX.get()}],['🃏 카드',346,D.cardNew?'N':0,()=>{DU.cardOpen=1;DU.treeOpen=0;DU.cardNew=0;SFX.get()}]].forEach(q=>{const x=q[1],y=46,w=74,h=26;card(x,y,w,h,13,.9);ctx.fillStyle='#5a3d22';ctx.font='900 12px system-ui';ctx.textAlign='left';ctx.fillText(q[0],x+10,y+18);if(q[2]){ctx.save();ctx.globalAlpha=.75+.25*Math.sin(D.t*5);ctx.fillStyle='#e8432e';ctx.beginPath();ctx.arc(x+w-5,y+4,8,0,7);ctx.fill();ctx.restore();ctx.fillStyle='#fff';ctx.font='900 10px system-ui';ctx.textAlign='center';ctx.fillText(q[2],x+w-5,y+7.5);ctx.textAlign='left'}btns.push({x,y:y-2,w,h:h+6,cb:q[3]})})}
+ if(D.mode==='rpg'&&!D.done&&!D.treeOpen&&!D.cardOpen&&!D.pick&&(SV.g||0)<3){const h=D.H[1].u,g=SV.g||0;let t=null,px=0,py=0,pr=0;if(h){if(D.hx0==null){D.hx0=h.x;D.hy0=h.y}
+   if(g===0){if(Math.hypot(h.x-D.hx0,h.y-D.hy0)>60){SV.g=1;save()}else{t='👆 화면을 끌어서 움직여요 · 노란 화살표를 따라가요';px=W*.2;py=FY0+FH()*.62;pr=30}}
+   else if(g===1){if(D.didSmash){SV.g=2;save()}else if(D.units.some(o=>o.side<0&&o.hp>0&&Math.hypot(o.x-h.x,o.y-h.y)<190)){t='✨ 오른쪽 큰 버튼을 눌러 기술을 써요';px=W-50;py=FB()-48;pr=46}}
+   else if(g===2){if(trSpent()>0){SV.g=3;save()}else if(trPts()>0){t='🌳 레벨이 올랐어요! 위의 스킬을 눌러 기술을 배워요';px=301;py=59;pr=30}}}
+  if(t){ctx.save();ctx.font='900 14px system-ui';ctx.textAlign='center';const tw=ctx.measureText(t).width+28,bx=W/2-tw/2,by=FT+44;ctx.fillStyle='rgba(50,32,10,.82)';roundRect(bx,by,tw,30,15);ctx.fill();ctx.strokeStyle='#e0a53a';ctx.lineWidth=1.5;roundRect(bx,by,tw,30,15);ctx.stroke();ctx.fillStyle='#fff2c0';ctx.fillText(t,W/2,by+20);const k=(D.t*1.2)%1;ctx.globalAlpha=(1-k)*.9;ctx.strokeStyle='#ffe07a';ctx.lineWidth=3.5;ctx.beginPath();ctx.arc(px,py,pr*(.7+.6*k),0,7);ctx.stroke();ctx.restore();ctx.textAlign='left'}}
  if(D.vfx&&D.vfx.length&&IMG.fxs&&IMG.fxs.naturalWidth&&!D.treeOpen&&!D.cardOpen){const im=IMG.fxs,cw=im.naturalWidth/3,ch=im.naturalHeight/2,Z=VZ();ctx.save();ctx.beginPath();ctx.rect(0,FY0,W,FB()-FY0+8);ctx.clip();for(const v of D.vfx){const k=1-v.t/v.T,q=w2s(v.x,v.y),w=v.w*Z*(.75+.35*k),h=w*ch/cw;ctx.globalAlpha=Math.min(1,k*6)*Math.min(1,v.t/v.T*2.2);ctx.save();ctx.translate(q[0],q[1]);ctx.scale(v.flip,1);ctx.drawImage(im,(v.i%3)*cw,Math.floor(v.i/3)*ch,cw,ch,-w/2,-h/2,w,h);ctx.restore()}ctx.restore()}
  if(D.mode==='rpg'&&!D.done&&!D.treeOpen&&!D.cardOpen)for(const o of D.units)if(o.wild!=null&&o.hp>0&&!(o.spawnT>0)){const q=w2s(o.x,o.y-ENEMY[o.k].h*.61*1.28-16),weak=D.H[1].lv<(o.rec||1),t='👑 '+ENEMY[o.k].n+' · 카드 '+Math.round(mcChance(o.k)*100)+'%'+(weak?' · Lv.'+o.rec+' 권장':'');if(q[0]>-60&&q[0]<W+60&&q[1]>FT&&q[1]<FB()){ctx.save();ctx.font='900 11px system-ui';ctx.textAlign='center';const tw=ctx.measureText(t).width+14;ctx.fillStyle=weak?'rgba(120,30,20,.82)':'rgba(50,32,10,.78)';roundRect(q[0]-tw/2,q[1]-13,tw,18,9);ctx.fill();ctx.fillStyle=weak?'#ffd0c0':'#ffe07a';ctx.fillText(t,q[0],q[1]);ctx.restore();ctx.textAlign='left'}}
  if(D.mode==='rpg'&&!D.done&&!D.treeOpen&&!D.cardOpen&&!D.pick){const o=capTarget();if(o){if(!SV.hintThrow){SV.hintThrow=1;save();D.banner={t:3,txt:'🃏 약해진 강한 몬스터에게 카드를 던져 잡아 보세요!'}}const c=capCid(o),pc=Math.round(capChance(c)*100),bw=236,bh=46,bx=W/2-bw/2,by=FB()-62,pu=1+.03*Math.sin(D.t*6);ctx.save();ctx.translate(W/2,by+bh/2);ctx.scale(pu,pu);ctx.translate(-W/2,-by-bh/2);ctx.fillStyle='rgba(40,25,10,.4)';roundRect(bx+2,by+4,bw,bh,23);ctx.fill();const g=ctx.createLinearGradient(0,by,0,by+bh);g.addColorStop(0,'#ffe9a0');g.addColorStop(1,'#f0a830');ctx.fillStyle=g;roundRect(bx,by,bw,bh,23);ctx.fill();ctx.strokeStyle='#6b4210';ctx.lineWidth=2.5;roundRect(bx,by,bw,bh,23);ctx.stroke();ctx.fillStyle='#3a2208';ctx.font='900 16px system-ui';ctx.textAlign='center';ctx.fillText('🃏 카드 던지기 · '+pc+'%',W/2,by+29);ctx.restore();ctx.textAlign='left';btns.push({x:bx-6,y:by-6,w:bw+12,h:bh+12,cb:()=>throwCard(o)});const q=w2s(o.x,o.y-20);ctx.save();ctx.globalAlpha=.55+.35*Math.sin(D.t*7);ctx.strokeStyle='#ffe07a';ctx.lineWidth=3;ctx.setLineDash([7,6]);ctx.beginPath();ctx.ellipse(q[0],q[1],34*VZ(),20*VZ(),0,0,7);ctx.stroke();ctx.restore()}
